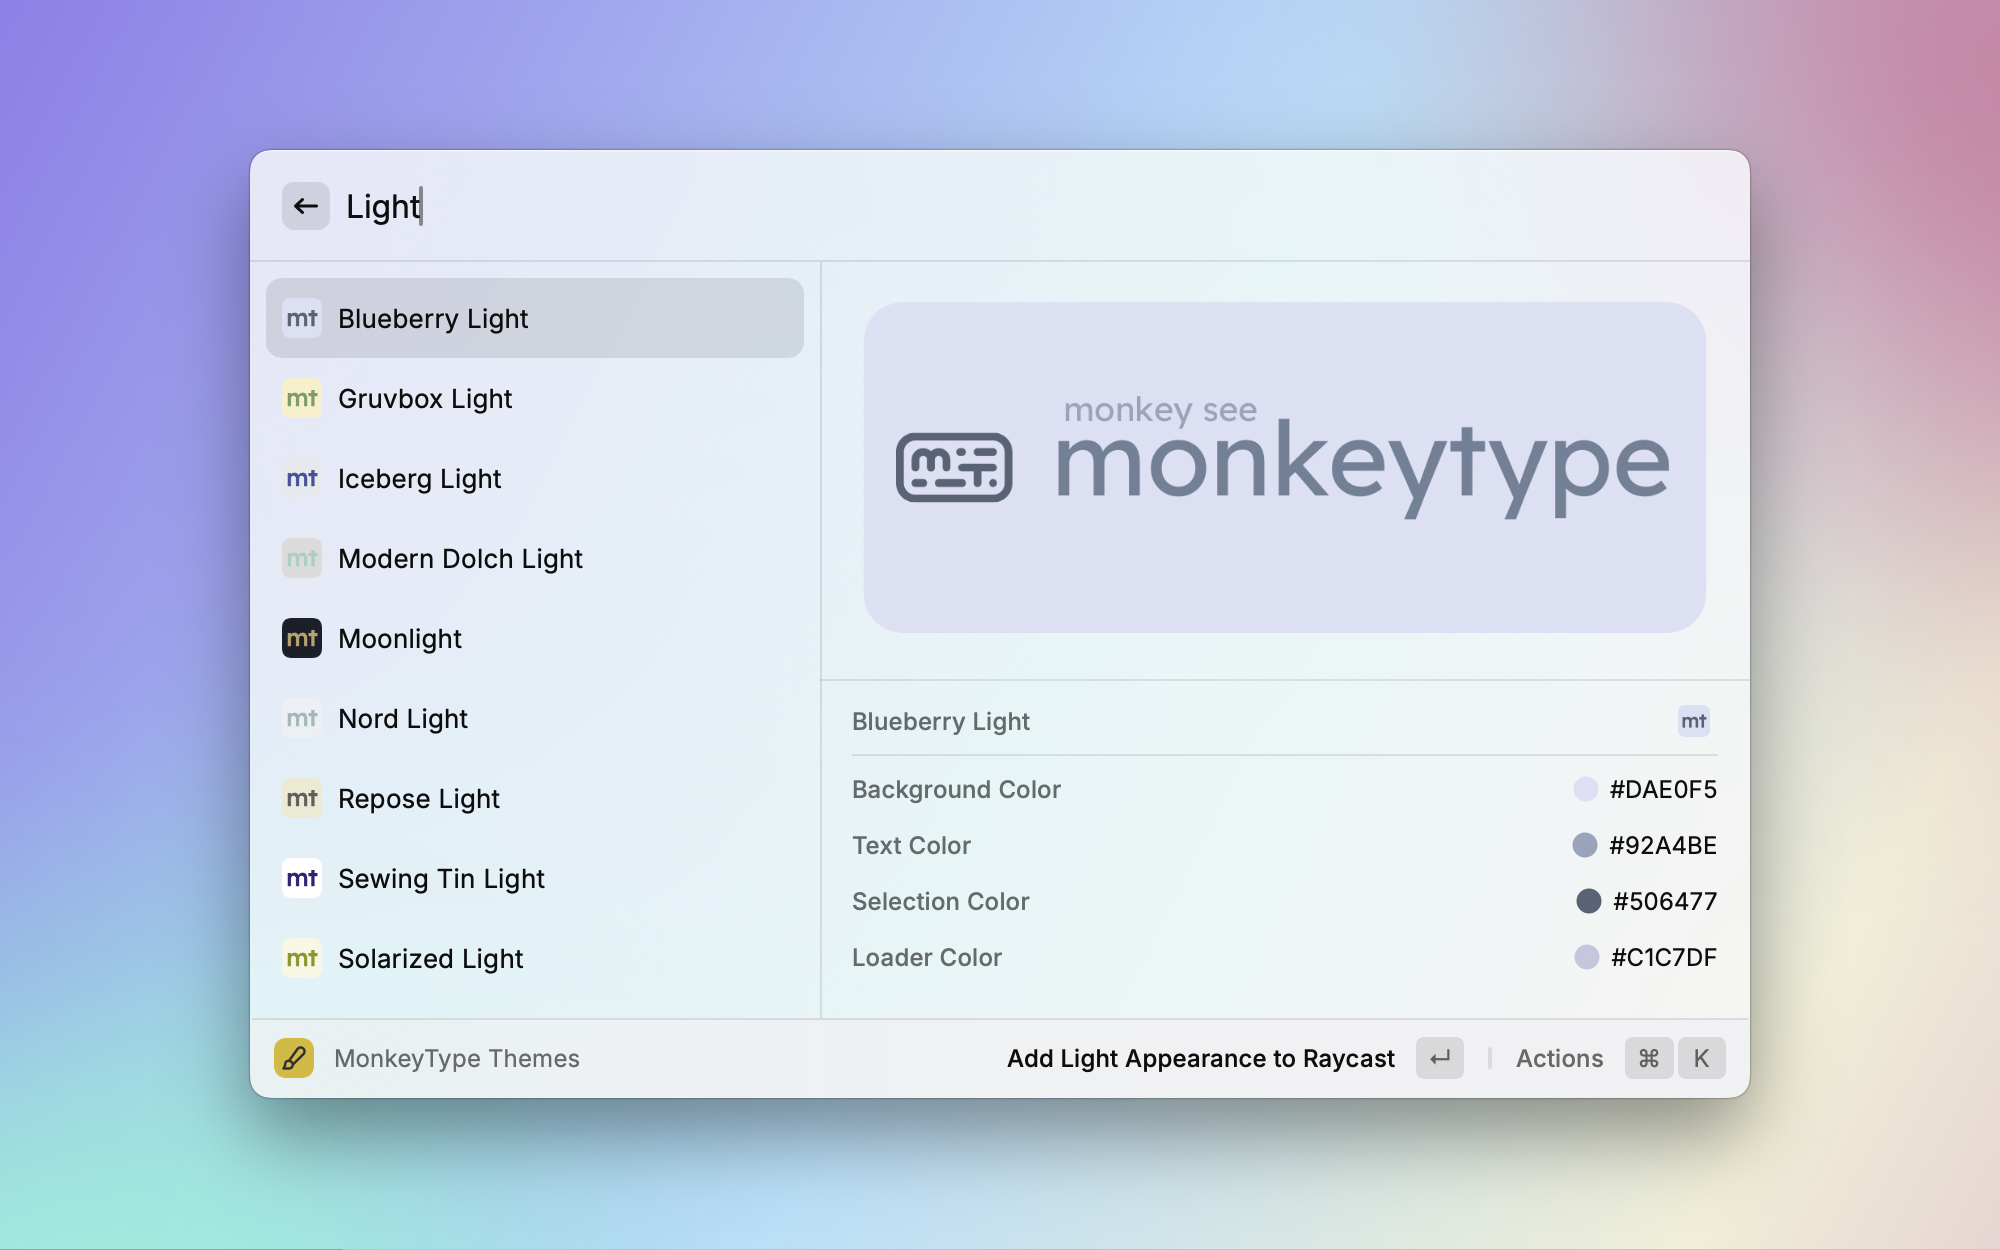
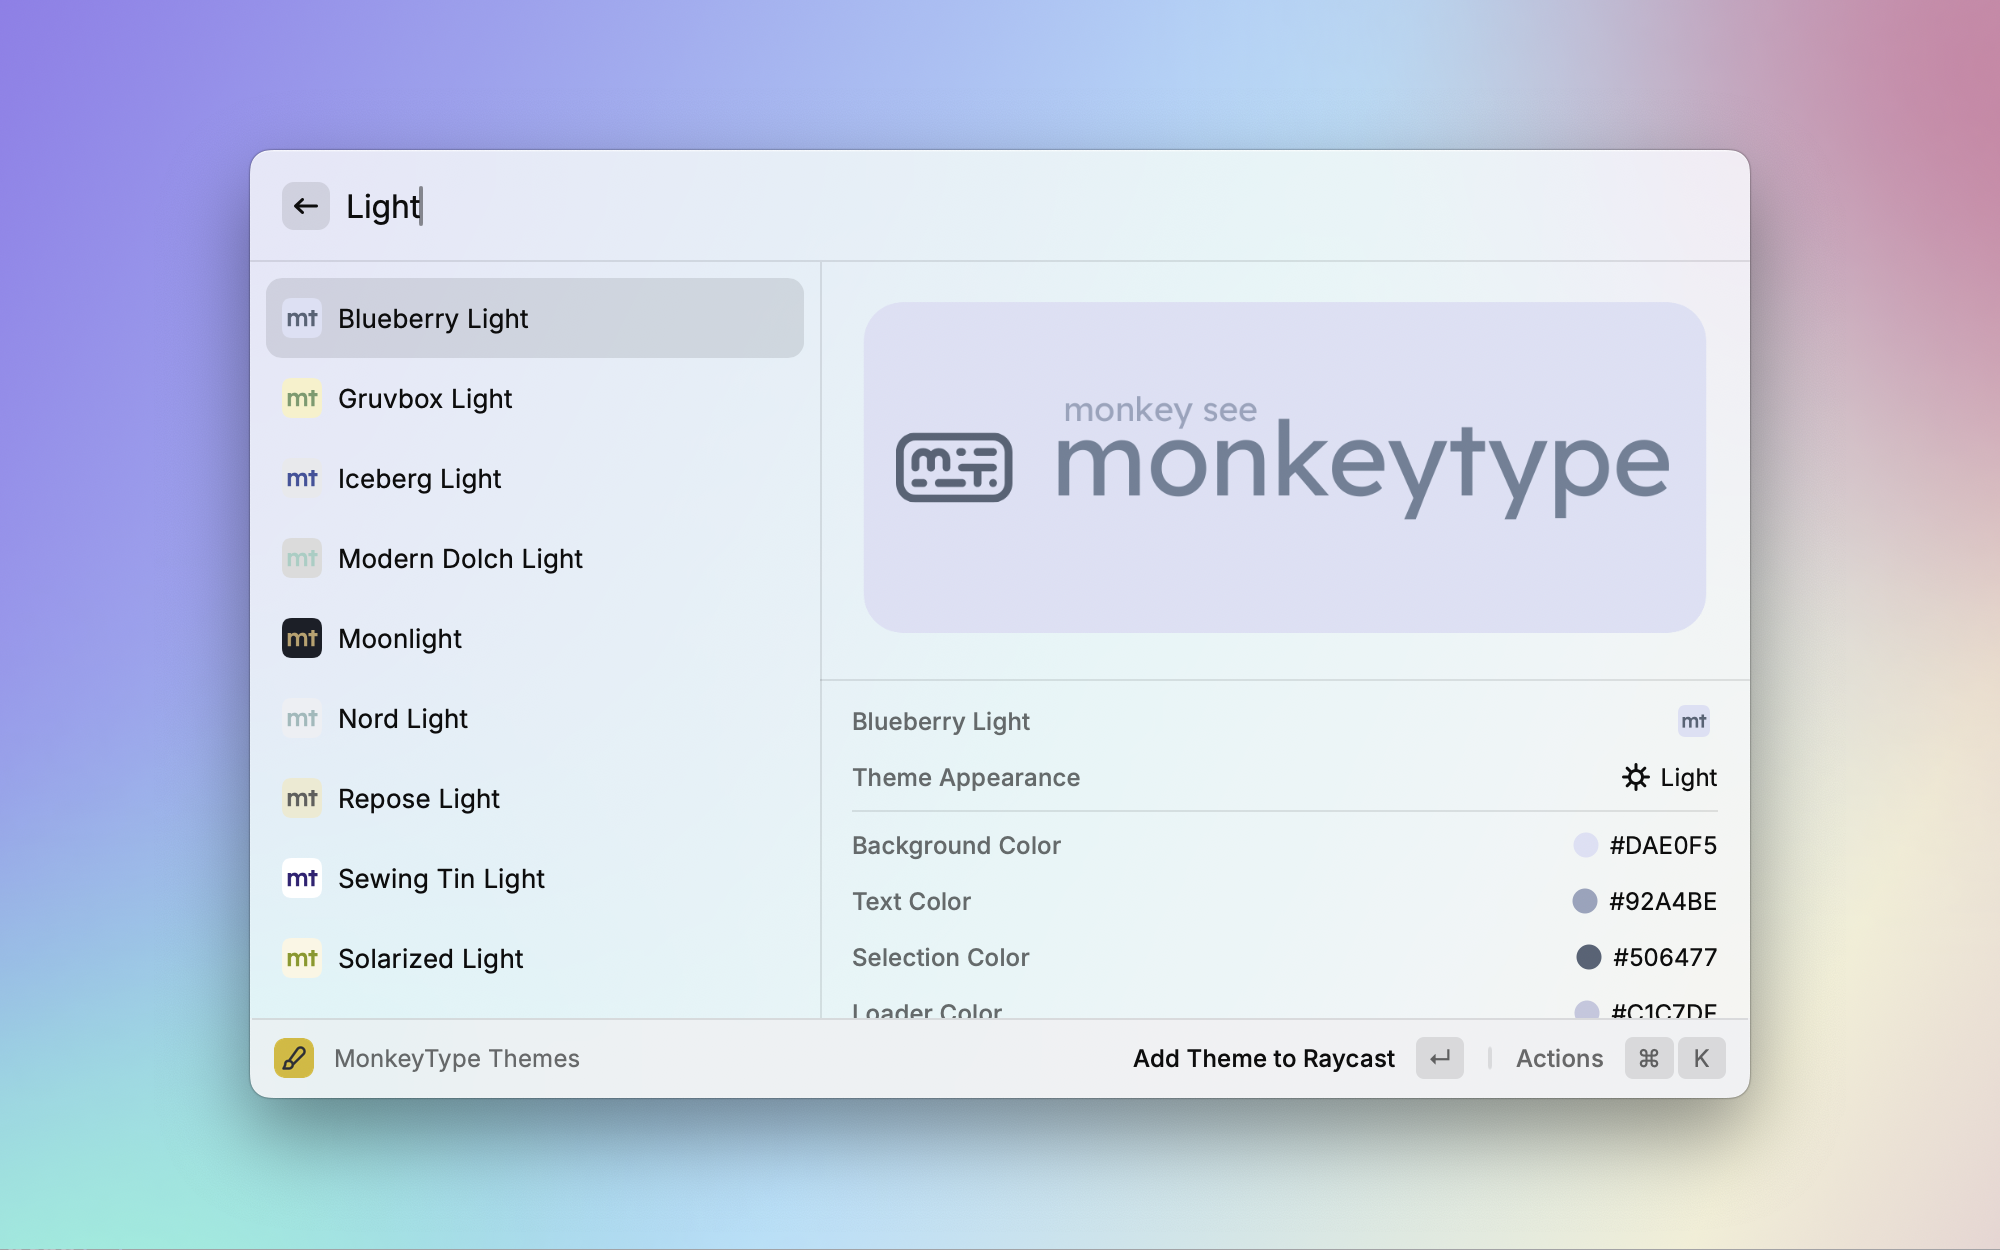
feat: add default theme appearance option

diff --git a/src/raycast-monkeytype-theme.tsx b/src/raycast-monkeytype-theme.tsx
@@ -178,6 +178,15 @@ export default function RaycastMonkeyTypeTheme() {
           actions={
             <ActionPanel>
               <Action
+                title="Add Theme to Raycast"
+                icon={Icon.RaycastLogoNeg}
+                onAction={async () => {
+                  if (!(await validateIdentity(theme.name))) return;
+                  open(theme.appearance == "light" ? theme["ray.so.add.light.url"] : theme["ray.so.add.dark.url"]);
+                  closeMainWindow();
+                }}
+              />
+              <Action
                 title="Add Light Appearance to Raycast"
                 icon={Icon.Sun}
                 onAction={async () => {
@@ -248,11 +257,11 @@ export default function RaycastMonkeyTypeTheme() {
                       source: getImageUrl(theme.name),
                     }}
                   />
-                  {/* <List.Item.Detail.Metadata.Label
+                  <List.Item.Detail.Metadata.Label
                       title="Theme Appearance"
                       text={theme.appearance == "light" ? "Light" : "Dark"}
                       icon={theme.appearance == "light" ? Icon.Sun : Icon.Moon}
-                    /> */}
+                    />
                   <List.Item.Detail.Metadata.Separator />
                   <List.Item.Detail.Metadata.Label
                     title="Background Color"
